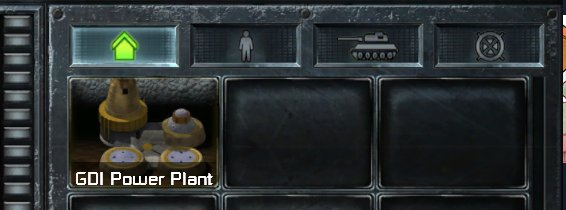
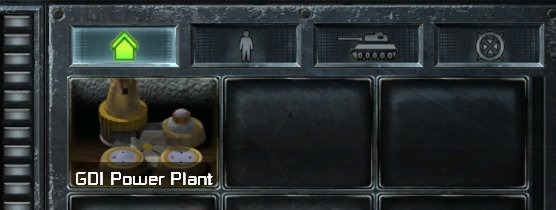
Prepare the site for publishing
A Quartz build (site/build.sh, pinned to v4.5.2) and a GitHub Pages workflow turn the vault into the website
without changing how it reads on GitHub. The pre-publish pass fixed what would have shown publicly: an invalid
frontmatter line that broke the build, a sliver of another window at the edge of three sidebar shots, logo pixels
left at a blank's edge, and captions that didn't match their screenshots.

diff --git a/site/quartz.config.ts b/site/quartz.config.ts
@@ -1,0 +1,93 @@
+import { QuartzConfig } from "./quartz/cfg"
+import * as Plugin from "./quartz/plugins"
+
+/**
+ * Quartz 4 Configuration
+ *
+ * See https://quartz.jzhao.xyz/configuration for more information.
+ */
+const config: QuartzConfig = {
+  configuration: {
+    pageTitle: "Remastered Modding Field Manual",
+    pageTitleSuffix: "",
+    enableSPA: true,
+    enablePopovers: true,
+    analytics: null,
+    locale: "en-US",
+    baseUrl: "gibbo101.github.io/remastered-modding-field-manual",
+    ignorePatterns: ["private", "templates", ".obsidian", "handoff", "site", "HANDOFF.md", "CLAUDE.md"],
+    defaultDateType: "modified",
+    theme: {
+      fontOrigin: "googleFonts",
+      cdnCaching: true,
+      typography: {
+        header: "Schibsted Grotesk",
+        body: "Source Sans Pro",
+        code: "IBM Plex Mono",
+      },
+      colors: {
+        lightMode: {
+          light: "#faf8f8",
+          lightgray: "#e5e5e5",
+          gray: "#b8b8b8",
+          darkgray: "#4e4e4e",
+          dark: "#2b2b2b",
+          secondary: "#284b63",
+          tertiary: "#84a59d",
+          highlight: "rgba(143, 159, 169, 0.15)",
+          textHighlight: "#fff23688",
+        },
+        darkMode: {
+          light: "#161618",
+          lightgray: "#393639",
+          gray: "#646464",
+          darkgray: "#d4d4d4",
+          dark: "#ebebec",
+          secondary: "#7b97aa",
+          tertiary: "#84a59d",
+          highlight: "rgba(143, 159, 169, 0.15)",
+          textHighlight: "#b3aa0288",
+        },
+      },
+    },
+  },
+  plugins: {
+    transformers: [
+      Plugin.FrontMatter(),
+      Plugin.CreatedModifiedDate({
+        priority: ["frontmatter", "filesystem"],
+      }),
+      Plugin.SyntaxHighlighting({
+        theme: {
+          light: "github-light",
+          dark: "github-dark",
+        },
+        keepBackground: false,
+      }),
+      Plugin.ObsidianFlavoredMarkdown({ enableInHtmlEmbed: false }),
+      Plugin.GitHubFlavoredMarkdown(),
+      Plugin.TableOfContents(),
+      Plugin.CrawlLinks({ markdownLinkResolution: "relative" }),
+      Plugin.Description(),
+      Plugin.Latex({ renderEngine: "katex" }),
+    ],
+    filters: [Plugin.RemoveDrafts()],
+    emitters: [
+      Plugin.AliasRedirects(),
+      Plugin.ComponentResources(),
+      Plugin.ContentPage(),
+      Plugin.FolderPage(),
+      Plugin.TagPage(),
+      Plugin.ContentIndex({
+        enableSiteMap: true,
+        enableRSS: true,
+      }),
+      Plugin.Assets(),
+      Plugin.Static(),
+      Plugin.Favicon(),
+      Plugin.NotFoundPage(),
+    ],
+  },
+}
+
+export default config

diff --git a/site/quartz.layout.ts b/site/quartz.layout.ts
@@ -1,0 +1,68 @@
+import { PageLayout, SharedLayout } from "./quartz/cfg"
+import * as Component from "./quartz/components"
+
+// components shared across all pages
+export const sharedPageComponents: SharedLayout = {
+  head: Component.Head(),
+  header: [],
+  afterBody: [],
+  footer: Component.Footer({
+    links: {
+      "Source on GitHub": "https://github.com/gibbo101/remastered-modding-field-manual",
+      "Licence: CC BY 4.0": "https://creativecommons.org/licenses/by/4.0/",
+    },
+  }),
+}
+
+// components for pages that display a single page (e.g. a single note)
+export const defaultContentPageLayout: PageLayout = {
+  beforeBody: [
+    Component.ConditionalRender({
+      component: Component.Breadcrumbs(),
+      condition: (page) => page.fileData.slug !== "index",
+    }),
+    Component.ArticleTitle(),
+    Component.ContentMeta(),
+    Component.TagList(),
+  ],
+  left: [
+    Component.PageTitle(),
+    Component.MobileOnly(Component.Spacer()),
+    Component.Flex({
+      components: [
+        {
+          Component: Component.Search(),
+          grow: true,
+        },
+        { Component: Component.Darkmode() },
+        { Component: Component.ReaderMode() },
+      ],
+    }),
+    Component.Explorer(),
+  ],
+  right: [
+    Component.Graph(),
+    Component.DesktopOnly(Component.TableOfContents()),
+    Component.Backlinks(),
+  ],
+}
+
+// components for pages that display lists of pages  (e.g. tags or folders)
+export const defaultListPageLayout: PageLayout = {
+  beforeBody: [Component.Breadcrumbs(), Component.ArticleTitle(), Component.ContentMeta()],
+  left: [
+    Component.PageTitle(),
+    Component.MobileOnly(Component.Spacer()),
+    Component.Flex({
+      components: [
+        {
+          Component: Component.Search(),
+          grow: true,
+        },
+        { Component: Component.Darkmode() },
+      ],
+    }),
+    Component.Explorer(),
+  ],
+  right: [],
+}

diff --git a/troubleshooting/known-engine-traps.md b/troubleshooting/known-engine-traps.md
@@ -1,6 +1,6 @@
 ---
 title: Known engine traps
-description: Crashes and misbehaviour in EA's released Red Alert source that any DLL mod built from it inherits. The mod search-path buffer overruns with about four mods enabled; another folder's RULES.INI is read before yours; a sidebar column of exactly 75 entries writes past its array; the name table fills; a crate that destroys the unit driving onto it leaves a call on a dead unit; a misspelt INI key makes Inaccurate=yes do nothing; fixes under switches that are off (FIXIT_HELI_LANDING, TOFIX) never compile; a dead target's coordinate is the map's origin; an animation's first stage runs no stage work; Cell_Building ignores a building's overlap cells. Production contracts new code must keep: orders never ask Can_Build, Get_Quantity counts from production start, an entry with production in flight must stay, a builder must be freed, a cheap refinery gets no harvester, the draw export's name can be NULL. Each with its fix.
+description: "Crashes and misbehaviour in EA's released Red Alert source that any DLL mod built from it inherits. The mod search-path buffer overruns with about four mods enabled; another folder's RULES.INI is read before yours; a sidebar column of exactly 75 entries writes past its array; the name table fills; a crate that destroys the unit driving onto it leaves a call on a dead unit; a misspelt INI key makes Inaccurate=yes do nothing; fixes under switches that are off (FIXIT_HELI_LANDING, TOFIX) never compile; a dead target's coordinate is the map's origin; an animation's first stage runs no stage work; Cell_Building ignores a building's overlap cells. Production contracts new code must keep: orders never ask Can_Build, Get_Quantity counts from production start, an entry with production in flight must stay, a builder must be freed, a cheap refinery gets no harvester, the draw export's name can be NULL. Each with its fix."
 tags: [troubleshooting, crashes, engine, dll, ini, sidebar, crates, projectiles, defines, targets, production, animations, cells]
 holds_for: Steam build 21590013
 status: verified

diff --git a/structuring/player-settings-page.md b/structuring/player-settings-page.md
@@ -77,7 +77,7 @@ settings file during a match.
 > [!TIP]
 > **In Tiberian Factions**
 >
-> TF's settings page has GENERAL and GAMEPLAY pages. GENERAL holds music per faction and the sidebar's sorting and
+> TF's settings page has GENERAL and GAMEPLAY pages, and a third tab, GAME RULES, that is still a placeholder. GENERAL holds music per faction and the sidebar's sorting and
 > badges. GAMEPLAY holds a CLASSIC AI master switch, the TF AI's fair fog, attack waves, naval and radar, and the
 > units' A* pathfinding, give way and smart harvesters. TF's A* is adapted from CFE Patch Redux. Switched off,
 > units use stock Red Alert's own pathfinder. Each per-player sidebar choice reaches the host as a mod

diff --git a/engine/adding-a-faction.md b/engine/adding-a-faction.md
@@ -126,4 +126,4 @@ need the DLL or a launcher patch:
 >
 > ![The lobby faction picker](img/lobby-faction-picker.jpg)
 >
-> The lobby picker's eight rows: GDI's silver coin, Nod's scorpion, Soviet and Allied, then a Soviet and an Allied duplicate, TS GDI's gold coin and two more Allied duplicates, plus random. The player's name is blanked.
+> The lobby picker's eight rows: GDI's silver coin, Nod's scorpion, Soviet and Allied, then a Soviet duplicate, TS GDI's gold coin and two Allied duplicates, plus random. The player's name is blanked.

diff --git a/behaviours/jumpjets-deployers-and-more.md b/behaviours/jumpjets-deployers-and-more.md
@@ -99,4 +99,4 @@ TS's Disc Thrower throws a disc that bounces (`Bouncy=yes`; OpenTS's `bounce.cpp
 >
 > ![Jumpjet Infantry beside a TS GDI base](img/jumpjet-infantry.jpg)
 >
-> TF's Jumpjet Infantry, selected, beside a TS GDI base: wings spread in flight, each with the selection box and health bar the launcher places.
+> TF's Jumpjet Infantry, selected, beside a TS GDI base: three in flight with wings spread and one landed with them folded, each with the selection box and health bar the launcher places.

diff --git a/art/porting-art-from-other-games.md b/art/porting-art-from-other-games.md
@@ -191,5 +191,3 @@ The step-by-step recipe, written for an AI coding assistant to follow, is Tiberi
 > Tiberian Sun units and its Red Alert 2 tanks are now HD rebuilds from 3D models, drawn in Remastered's camera.
 > Every port is packed at 8 canvas pixels per classic pixel, centred, and given a baked shadow fitted to EA's
 > Mammoth tanks.
->
-> <!-- screenshot: a TS Titan, a C&C3 Predator and an EA Medium Tank side by side -->

diff --git a/front-end/new-screens-and-buttons.md b/front-end/new-screens-and-buttons.md
@@ -190,4 +190,4 @@ player's.
 >
 > ![TF's ADD-ONS screen](img/add-ons-screen.jpg)
 >
-> TF's ADD-ONS screen: a screen of the mod's own, on the launcher's unused SplashScreen class. The pack logos are blanked here because they use EA's Tiberian Sun logo.
+> TF's ADD-ONS screen: a screen of the mod's own, on the launcher's unused SplashScreen class. The pack logos are removed from this shot because they use EA's Tiberian Sun logo.

diff --git a/ai/pathfinding.md b/ai/pathfinding.md
@@ -195,4 +195,4 @@ DontCryJustDie pointed out its cost.
 >
 > ![TF's pathfinding switches](img/settings-units.jpg)
 >
-> TF's UNITS switches: A* pathfinding, give-way and the harvester fixes, each with an off state that is stock Red Alert's.
+> TF's UNITS switches: A* pathfinding, give-way and the harvester fixes, each with an off state that is stock Red Alert's. This shot has A* and give-way switched off.

diff --git a/clientg-ram/rewriting-launcher-strings.md b/clientg-ram/rewriting-launcher-strings.md
@@ -114,4 +114,4 @@ search `ClientG.exe`'s strings for the name family.**
 >
 > ![TD's tab icons on a TS GDI sidebar](img/gdi-td-tab-icons.jpg)
 >
-> A TS GDI player's sidebar tabs: TD's green tab icons, from the rewritten prefix strings.
+> A TS GDI player's sidebar tabs: TD's tab icons, from the rewritten prefix strings (the selected tab lights green).
